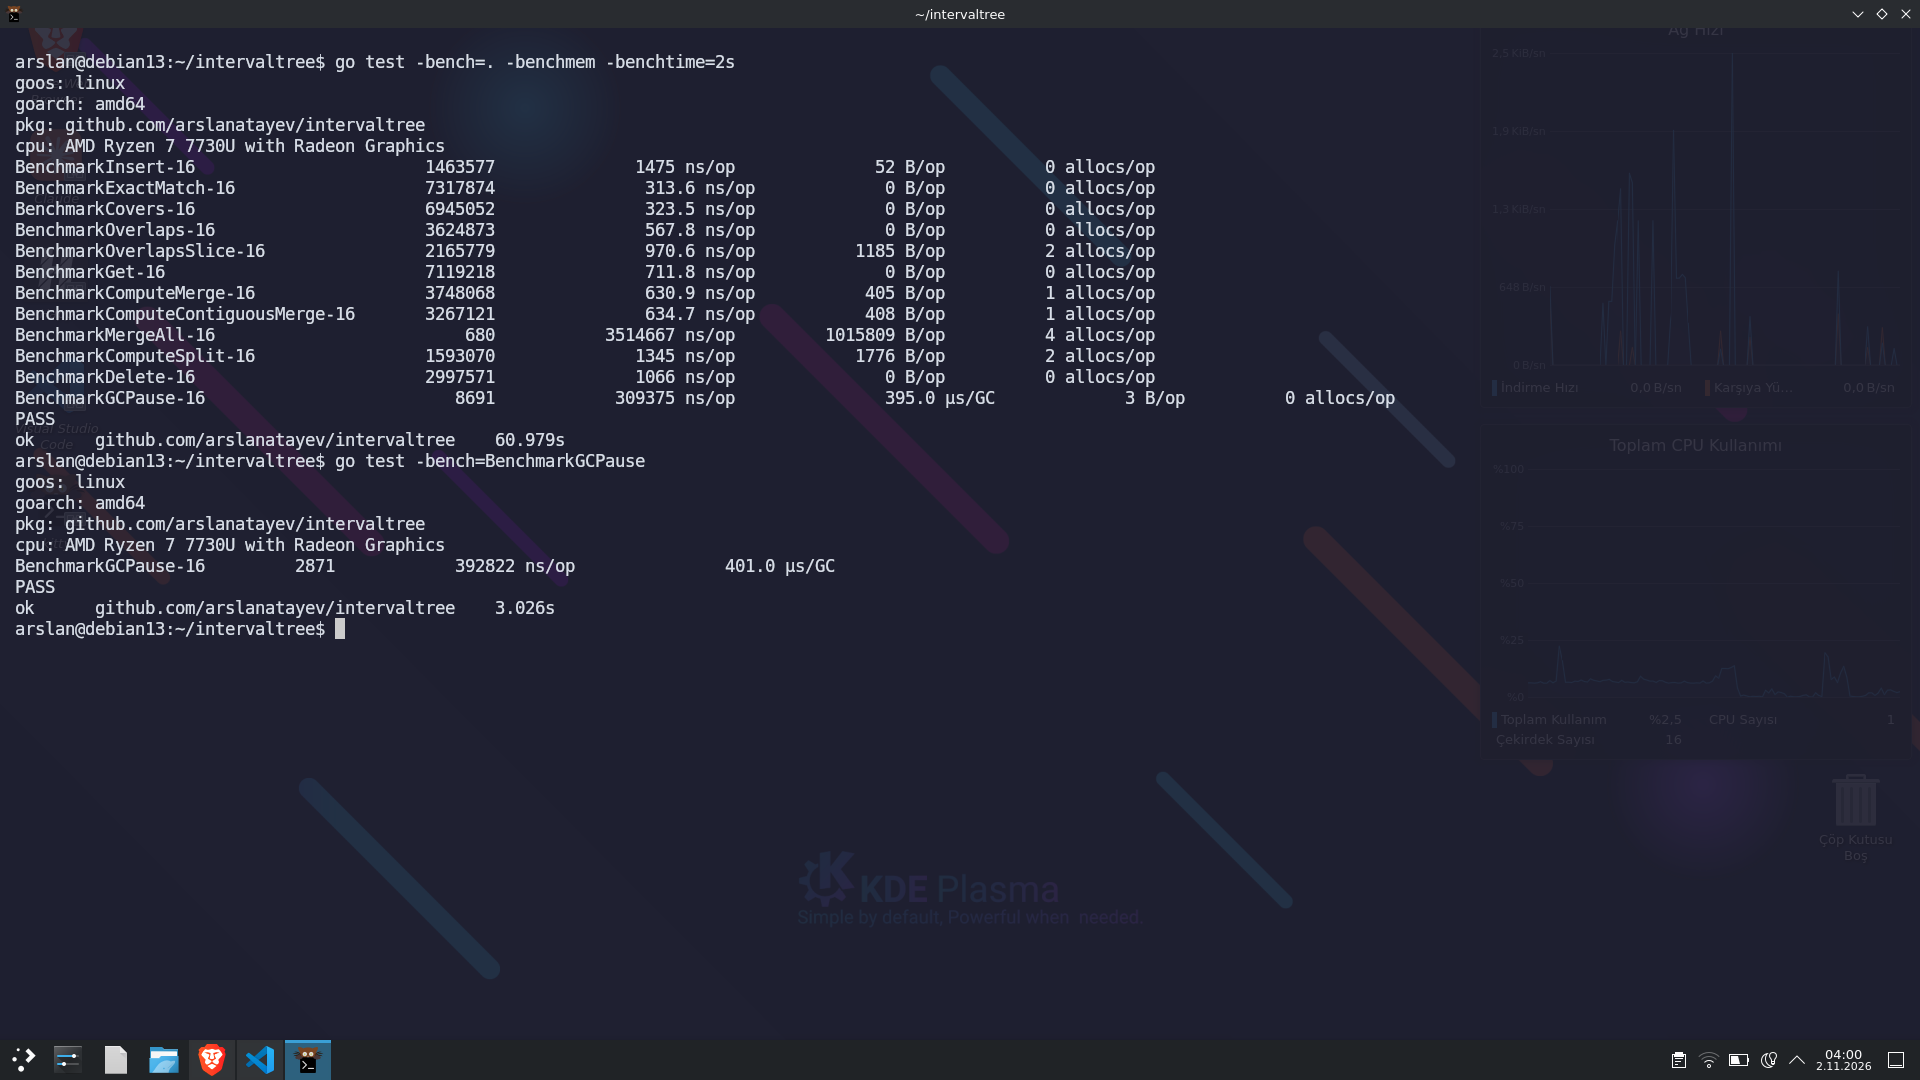
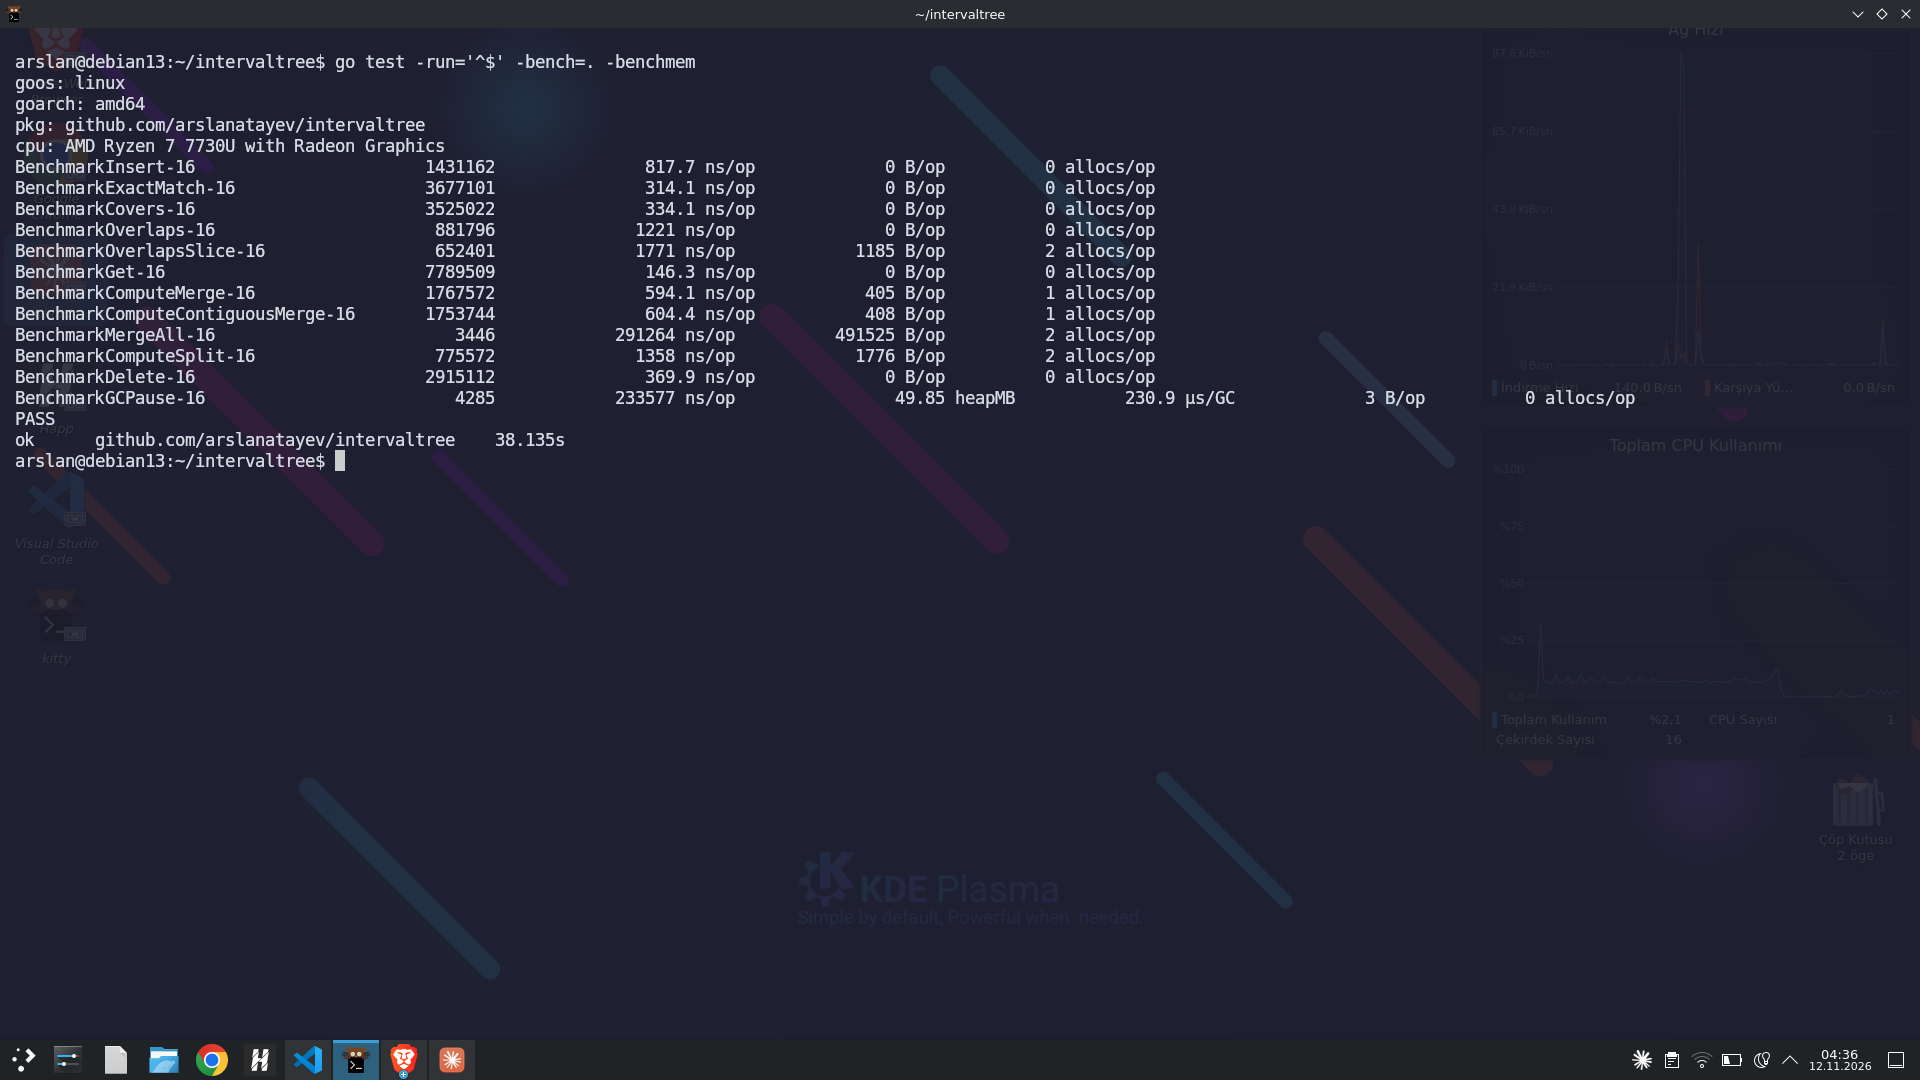
refactor(bench): fix benchmark methodology and delegate ExactMatch to Get
- Fix runtime.KeepAlive and GC pause metric collection in BenchmarkGCPause
- Isolate tree setup in BenchmarkMergeAll using b.StopTimer/StartTimer
- Delegate ExactMatch implementation to Get to eliminate code duplication
- Update README benchmarks section to use a structured data table instead of text

diff --git a/benchmark_test.go b/benchmark_test.go
@@ -35,20 +35,43 @@ func defaultTree(capacity int) *IntervalTree[int, struct{}] {
 	return New[int, struct{}](capacity, cmp)
 }
 
-func BenchmarkInsert(b *testing.B) {
+// benchSize is the tree size used by the lookup, insert and delete benchmarks.
+const benchSize = 100_000
+
+// genIntervals returns n unique random intervals with starts in [0, 1_000_000)
+// and lengths in [0, maxLen). The seed is fixed so every benchmark that uses it
+// sees the same data.
+func genIntervals(n, maxLen int) [][2]int {
 	rng := rand.New(rand.NewSource(42))
-	intervals := make([][2]int, b.N)
-	for i := 0; i < b.N; i++ {
+	seen := make(map[[2]int]struct{}, n)
+	intervals := make([][2]int, 0, n)
+	for len(intervals) < n {
 		s := rng.Intn(1_000_000)
-		intervals[i] = [2]int{s, s + rng.Intn(100)}
+		iv := [2]int{s, s + rng.Intn(maxLen)}
+		if _, ok := seen[iv]; ok {
+			continue
+		}
+		seen[iv] = struct{}{}
+		intervals = append(intervals, iv)
 	}
+	return intervals
+}
+
+func BenchmarkInsert(b *testing.B) {
+	intervals := genIntervals(benchSize, 100)
+	tree := defaultTree(benchSize)
 
 	b.ResetTimer()
 	b.ReportAllocs()
 
-	tree := defaultTree(b.N)
 	for i := 0; i < b.N; i++ {
-		_ = tree.Insert(intervals[i][0], intervals[i][1], struct{}{})
+		idx := i % benchSize
+		if i > 0 && idx == 0 {
+			b.StopTimer()
+			tree.Reset()
+			b.StartTimer()
+		}
+		_ = tree.Insert(intervals[idx][0], intervals[idx][1], struct{}{})
 	}
 }
 
@@ -136,23 +159,18 @@ func BenchmarkOverlapsSlice(b *testing.B) {
 }
 
 func BenchmarkGet(b *testing.B) {
-	rng := rand.New(rand.NewSource(42))
-	intervals := make([][2]int, b.N)
-	for i := 0; i < b.N; i++ {
-		s := rng.Intn(1_000_000)
-		intervals[i] = [2]int{s, s + rng.Intn(100)}
-	}
-
-	tree := defaultTree(b.N)
-	for i := 0; i < b.N; i++ {
-		_ = tree.Insert(intervals[i][0], intervals[i][1], struct{}{})
+	intervals := genIntervals(benchSize, 100)
+	tree := defaultTree(benchSize)
+	for _, iv := range intervals {
+		_ = tree.Insert(iv[0], iv[1], struct{}{})
 	}
 
 	b.ResetTimer()
 	b.ReportAllocs()
 
 	for i := 0; i < b.N; i++ {
-		_, _ = tree.Get(intervals[i][0], intervals[i][1])
+		iv := intervals[i%benchSize]
+		_, _ = tree.Get(iv[0], iv[1])
 	}
 }
 
@@ -199,18 +217,20 @@ func BenchmarkComputeContiguousMerge(b *testing.B) {
 func BenchmarkMergeAll(b *testing.B) {
 	const size = 10_000
 	rng := rand.New(rand.NewSource(42))
+	next := func(a int) int { return a + 1 }
 
-	b.ResetTimer()
 	b.ReportAllocs()
+	b.ResetTimer()
 
 	for i := 0; i < b.N; i++ {
+		b.StopTimer()
 		tree := defaultTree(size)
 		for j := 0; j < size; j++ {
 			s := rng.Intn(50_000)
 			_ = tree.Insert(s, s+rng.Intn(100), struct{}{})
 		}
+		b.StartTimer()
 
-		next := func(a int) int { return a + 1 }
 		tree.MergeAll(next)
 	}
 }
@@ -237,23 +257,27 @@ func BenchmarkComputeSplit(b *testing.B) {
 }
 
 func BenchmarkDelete(b *testing.B) {
-	rng := rand.New(rand.NewSource(42))
-	intervals := make([][2]int, b.N)
-	for i := 0; i < b.N; i++ {
-		s := rng.Intn(1_000_000)
-		intervals[i] = [2]int{s, s + rng.Intn(100)}
+	intervals := genIntervals(benchSize, 100)
+	tree := defaultTree(benchSize)
+	fill := func() {
+		for _, iv := range intervals {
+			_ = tree.Insert(iv[0], iv[1], struct{}{})
+		}
 	}
-
-	tree := defaultTree(b.N)
-	for i := 0; i < b.N; i++ {
-		_ = tree.Insert(intervals[i][0], intervals[i][1], struct{}{})
-	}
+	fill()
 
 	b.ResetTimer()
 	b.ReportAllocs()
 
 	for i := 0; i < b.N; i++ {
-		_ = tree.Delete(intervals[i][0], intervals[i][1])
+		idx := i % benchSize
+		if i > 0 && idx == 0 {
+			b.StopTimer()
+			tree.Reset()
+			fill()
+			b.StartTimer()
+		}
+		_ = tree.Delete(intervals[idx][0], intervals[idx][1])
 	}
 }
 
@@ -265,9 +289,21 @@ func BenchmarkGCPause(b *testing.B) {
 	}
 
 	b.ResetTimer()
+
+	var total time.Duration
 	for i := 0; i < b.N; i++ {
 		start := time.Now()
 		runtime.GC()
-		b.ReportMetric(float64(time.Since(start).Microseconds()), "µs/GC")
+		total += time.Since(start)
 	}
+
+	b.StopTimer()
+	b.ReportMetric(float64(total.Nanoseconds())/1e3/float64(b.N), "µs/GC")
+
+	// Sanity check: the tree must still be live, so the heap should hold it.
+	var ms runtime.MemStats
+	runtime.ReadMemStats(&ms)
+	b.ReportMetric(float64(ms.HeapAlloc)/(1<<20), "heapMB")
+
+	runtime.KeepAlive(tree)
 }

diff --git a/search.go b/search.go
@@ -16,27 +16,10 @@ package intervaltree
 
 import "iter"
 
-// ExactMatch traverses the tree to determine if an interval matching [start, end] exactly exists.
+// ExactMatch reports whether an interval matching [start, end] exactly exists in the tree.
 func (t *IntervalTree[K, V]) ExactMatch(start, end K) bool {
-	target := Interval[K, V]{
-		Start: start,
-		End:   end,
-	}
-	currentIdx := t.rootIdx
-
-	for currentIdx != noIdx {
-		node := &t.nodes[currentIdx]
-		cmp := t.cmpIntervals(target, node.Interval)
-		if cmp < 0 {
-			currentIdx = node.leftIdx
-		} else if cmp > 0 {
-			currentIdx = node.rightIdx
-		} else {
-			return true
-		}
-	}
-
-	return false
+    _, ok := t.Get(start, end)
+    return ok
 }
 
 // Covers reports whether a single stored interval contains all of [start, end].

diff --git a/README.md b/README.md
@@ -32,20 +32,26 @@ Absolute numbers for this library only. No comparison with other interval tree i
 
 Tested on **AMD Ryzen 7 7730U** (Linux amd64, Go 1.24):
 
-```text
-BenchmarkInsert-16                  1463577     1475 ns/op       52 B/op    0 allocs/op
-BenchmarkExactMatch-16              7317874    313.6 ns/op        0 B/op    0 allocs/op
-BenchmarkCovers-16                  6945052    323.5 ns/op        0 B/op    0 allocs/op
-BenchmarkOverlaps-16                3624873    567.8 ns/op        0 B/op    0 allocs/op
-BenchmarkOverlapsSlice-16           2165779    970.6 ns/op     1185 B/op    2 allocs/op
-BenchmarkGet-16                     7119218    711.8 ns/op        0 B/op    0 allocs/op
-BenchmarkComputeMerge-16            3748068    630.9 ns/op      405 B/op    1 allocs/op
-BenchmarkComputeContiguousMerge-16  3267121    634.7 ns/op      408 B/op    1 allocs/op
-BenchmarkMergeAll-16                    680  3514667 ns/op  1015809 B/op    4 allocs/op
-BenchmarkComputeSplit-16            1593070     1345 ns/op     1776 B/op    2 allocs/op
-BenchmarkDelete-16                  2997571     1066 ns/op        0 B/op    0 allocs/op
-BenchmarkGCPause-16                    8691   309375 ns/op        3 B/op    0 allocs/op    395.0 µs/GC
-```
+| Benchmark | Time per Operation (ns/op) | Memory Usage (B/op) | Allocations (allocs/op) |
+| :--- | :--- | :--- | :--- |
+| **`BenchmarkInsert`** | 817.7 ns | 0 B | 0 |
+| **`BenchmarkExactMatch`** | 314.1 ns | 0 B | 0 |
+| **`BenchmarkCovers`** | 334.1 ns | 0 B | 0 |
+| **`BenchmarkOverlaps`** | 1221 ns | 0 B | 0 |
+| **`BenchmarkOverlapsSlice`** | 1771 ns | 1185 B | 2 |
+| **`BenchmarkGet`** | 146.3 ns | 0 B | 0 |
+| **`BenchmarkComputeMerge`** | 594.1 ns | 405 B | 1 |
+| **`BenchmarkComputeContiguousMerge`** | 604.4 ns | 408 B | 1 |
+| **`BenchmarkMergeAll`** | 291264 ns | 491525 B | 2 |
+| **`BenchmarkComputeSplit`** | 1358 ns | 1776 B | 2 |
+| **`BenchmarkDelete`** | 369.9 ns | 0 B | 0 |
+
+### Garbage Collector & Memory Footprint
+
+| Benchmark | Pause Duration | Heap Allocation |
+| :--- | :--- | :--- |
+| **`BenchmarkGCPause`** (1M nodes) | 230.9 µs/GC | 49.85 MB |
+
 ![Image](assets/benchmark_output.png)
 
 ## Fuzz Testing
